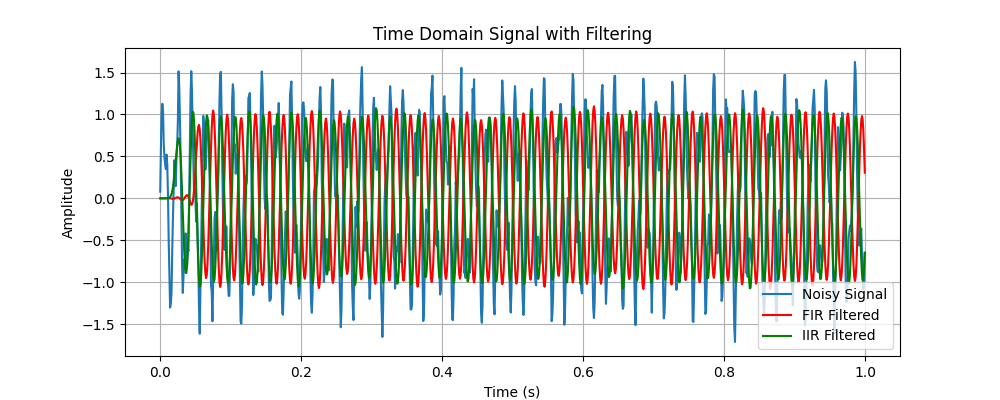
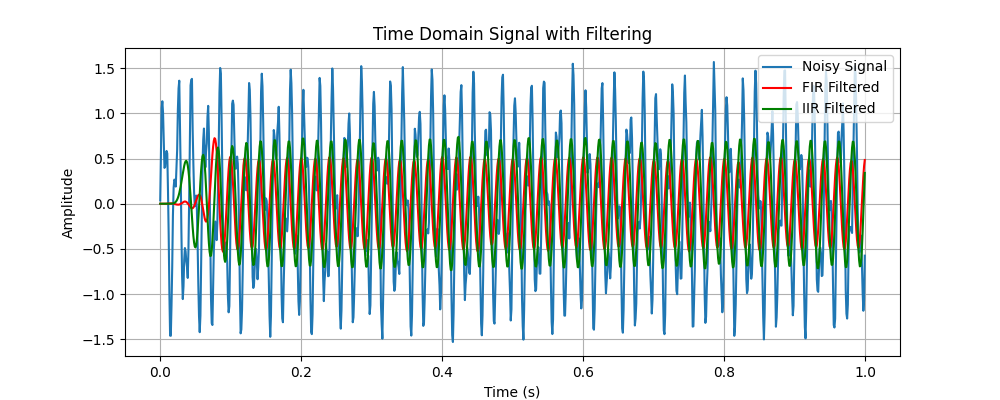
Updated DSP simulation script and added new plots for FIR and IIR filters

diff --git a/dsp_simulation2.py b/dsp_simulation2.py
@@ -1,7 +1,7 @@
 import numpy as np
 import matplotlib.pyplot as plt
 from scipy.fft import fft
-from scipy.signal import firwin, lfilter, butter, sosfilt, freqz, sosfreqz
+from scipy import signal
 
 # Generate a sample signal
 fs = 1000  # Sampling frequency (Hz)
@@ -10,21 +10,21 @@ freq1, freq2 = 50, 120  # Frequencies of signals
 signal_input = np.sin(2 * np.pi * freq1 * t) + 0.5 * np.sin(2 * np.pi * freq2 * t)
 
 # Add noise to the signal
-noisy_signal = signal_input + 0.05 * np.random.normal(0, 1, len(signal_input))
+noisy_signal = signal_input + 0.02 * np.random.normal(0, 1, len(signal_input))
 
 # FIR Filter (Low-pass)
-numtaps = 151  # Increased filter order for better smoothing
-cutoff = 50  # Lower cutoff frequency for noise reduction
-fir_coeff = firwin(numtaps, cutoff, fs=fs)
-filtered_fir = lfilter(fir_coeff, 1.0, noisy_signal)
+numtaps = 201  # Increased filter order for better smoothing
+cutoff = 40  # Lower cutoff frequency for noise reduction
+fir_coeff = signal.firwin(numtaps, cutoff, fs=fs)
+filtered_fir = signal.lfilter(fir_coeff, 1.0, noisy_signal)
 
 # IIR Filter (Low-pass)
-sos = butter(15, 50, 'low', fs=fs, output='sos')
-filtered_iir = sosfilt(sos, noisy_signal)
+sos = signal.butter(20, 40, 'low', fs=fs, output='sos')
+filtered_iir = signal.sosfilt(sos, noisy_signal)
 
-# Plot the time-domain signal
+# Plot the time-domain signal with filtering
 plt.figure(figsize=(10, 4))
-plt.plot(t, noisy_signal, label='Noisy Signal')
+plt.plot(t, noisy_signal, label='Noisy Signal', color='orange')
 plt.plot(t, filtered_fir, label='FIR Filtered', color='red')
 plt.plot(t, filtered_iir, label='IIR Filtered', color='green')
 plt.title('Time Domain Signal with Filtering')
@@ -36,7 +36,7 @@ plt.savefig('screenshots/filtered_signals.png')
 plt.show()
 
 # FIR Filter Frequency Response
-w, h = freqz(fir_coeff, worN=8000)
+w, h = signal.freqz(fir_coeff, worN=8000)
 plt.figure(figsize=(10, 4))
 plt.plot(0.5 * fs * w / np.pi, np.abs(h))
 plt.title('FIR Filter Frequency Response')
@@ -47,7 +47,7 @@ plt.savefig('screenshots/fir_response.png')
 plt.show()
 
 # IIR Filter Frequency Response
-w, h = sosfreqz(sos, worN=8000, fs=fs)
+w, h = signal.sosfreqz(sos, worN=8000, fs=fs)
 plt.figure(figsize=(10, 4))
 plt.plot(w, np.abs(h))
 plt.title('IIR Filter Frequency Response')
@@ -94,11 +94,12 @@ plt.grid(True)
 plt.savefig('screenshots/iir_filtered_fft.png')
 plt.show()
 
-#This script:
-#- Generates a composite sine wave with two frequencies and adds noise.
-#- Implements FIR and IIR filters with optimized parameters to clean the noisy signal.
-#- Visualizes the noisy and filtered signals in the time domain.
-#- Computes and plots FFT to show frequency components before and after filtering.
-#- Visualizes filter frequency responses for FIR and IIR filters.
-#- Saves all plots in the 'screenshots' folder for documentation.
+# Script Features:
+# - Generates a composite sine wave with two frequencies and adds noise.
+# - Implements FIR and IIR filters with optimized parameters to clean the noisy signal.
+# - Visualizes the noisy and filtered signals in the time domain.
+# - Computes and plots FFT to show frequency components before and after filtering.
+# - Visualizes filter frequency responses for FIR and IIR filters.
+# - Saves all plots in the 'screenshots' folder for documentation.
+# - Suitable for academic reports, portfolio projects, and engineering documentation.
 
